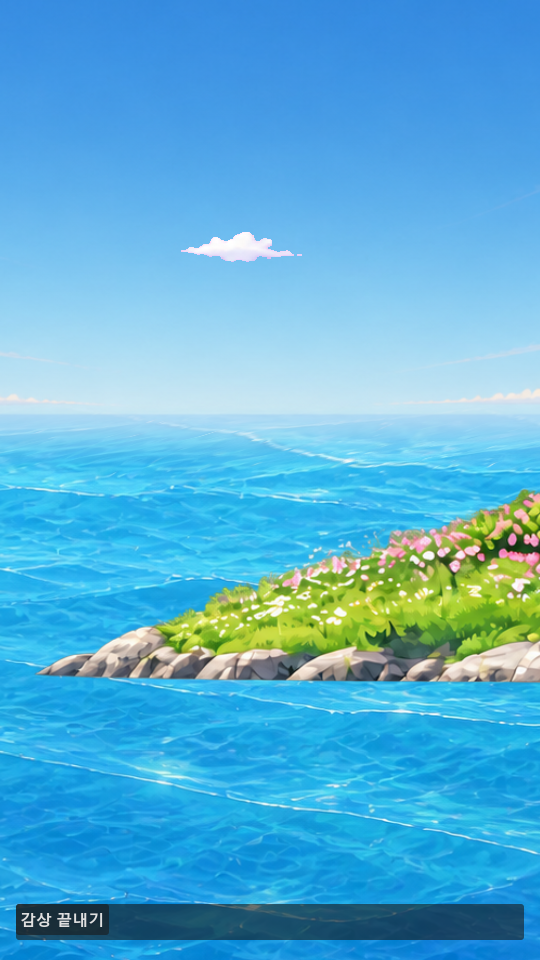
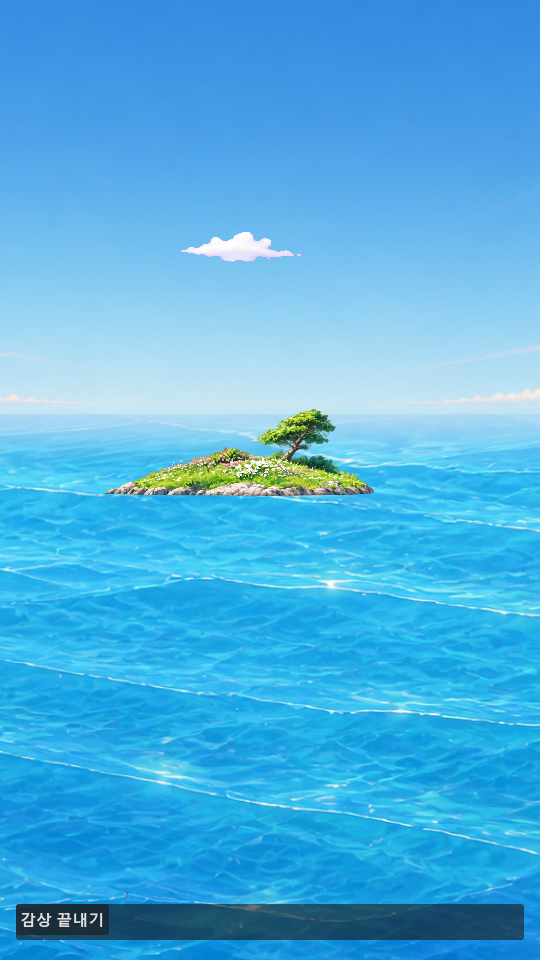
Place seasonal island beyond boat lane

Changed region(s): [[0.0593, 0.5, 1.0, 0.7188], [0.2074, 0.4062, 0.6815, 0.5312]]

diff --git a/docs/design/PROJECT_GDD.md b/docs/design/PROJECT_GDD.md
@@ -324,7 +324,7 @@
 | 오늘의 마음 제거 | `IMPLEMENTED / MACHINE_VERIFIED` | mood data와 pre-entry prompt를 current product route에서 retire함 |
 | 현실 시간 분위기 | `IMPLEMENTED / RUNTIME_CAPTURE_VERIFIED` | 현지 시간은 시각만 바꾸고, startup selector·saved preference는 없음 |
 | 기본 하늘·바다 흐름 | `IMPLEMENTED / MACHINE_VERIFIED / RUNTIME_CAPTURE_VERIFIED` | 각 시간대의 `SkyBackdrop`은 material override 없이 고정되고, `SeaBackdrop`만 `voyage_split_sea_flow.gdshader`의 alpha mask와 shared flow offset으로 타이틀 대기·항해 중 계속 느리게 흐른다. 항해 시간·저장·보상에는 영향을 주지 않는다. Bright 1.8초 frame pair에서 upper sky `0.00%`, open sea `70.79%`, lower sea `83.81%` changed-pixel 증거가 남아 있다. |
-| 밝은 봄 분리 parallax | `IMPLEMENTED / MACHINE_VERIFIED / RUNTIME_CAPTURE_VERIFIED` | 현지 월 `3..5`의 `bright` visual context에서만 구름이 세 camera path에, 꽃섬은 normal·Appreciation의 기존 저밀도 기회 위에 별도 Sprite3D로 합성된다. static sky, flowing sea, 보트, 저장·보상은 바꾸지 않는다. Human/device motion comfort는 별도 검증 전. |
+| 밝은 봄 분리 parallax | `IMPLEMENTED / MACHINE_VERIFIED / RUNTIME_CAPTURE_VERIFIED` | 현지 월 `3..5`의 `bright` visual context에서만 구름이 세 camera path에, 꽃섬은 normal·Appreciation의 기존 저밀도 기회 위에 별도 Sprite3D로 합성된다. 꽃섬은 원본의 투명 캔버스를 제외한 수평선용 영역만 쓰므로 보트가 지나가는 하단 바다 항로에 들어오지 않는다. static sky, flowing sea, 보트, 저장·보상은 바꾸지 않는다. Human/device motion comfort는 별도 검증 전. |
 | 선체-수면 접점 | `IMPLEMENTED / MACHINE_VERIFIED / RUNTIME_CAPTURE_VERIFIED` | existing ripple은 보트의 x/z와 거의 같은 y bob을 따른다. user-approved `MLB-BOAT-FLT-006` narrow waterline raster는 `BoatWaterlineContact`가 depth test를 유지한 채 선체 하단에만 표시하며, 같은 x/z·vertical drift와 `still` comfort base return을 사용한다. 540×960 title·voyage capture에서 캐릭터·동반자·`쉬는 메뉴`를 가리지 않는다. Human comfort는 별도 검증 전 |
 | 흘러가는 풍경 | `IMPLEMENTED / RUNTIME_CAPTURE_VERIFIED` | 첫 기회 90–150초와 기회별 65% 표시를 사용하며, local ambient memory 저장은 구현됨. 0회 항해도 정상이고 Human five-minute observation은 별도 검증 전 |
 | cosmetic 꾸미기 | `IMPLEMENTED / RUNTIME_CAPTURE_VERIFIED` | in-voyage selector와 독립 preview가 local cosmetic state만 바꿈 |
@@ -407,7 +407,7 @@ Static docs, automated tests, generated assets, and GPU captures do not promote 
 - 월 3–5월은 내부 `spring` visual bucket일 뿐, 날짜·계절 이름·지역·날씨·달력 UI·saved preference를 표시하지 않습니다.
 - first v1은 `bright + spring`의 one-island vertical slice입니다. 6–2월과 bright의 다른 기존 motif는 current pool로 fallback하며, 다른 계절 image batch는 이 package에 자동 포함하지 않습니다.
 - `SkyBackdrop`은 그대로 고정하고, existing `SeaBackdrop`과 `voyage_split_sea_flow.gdshader`를 재사용합니다. 새 sea image, full-scene moving texture, whole-sky pan은 만들지 않습니다.
-- `SeasonalCloudLayer`는 three camera path의 sky와 sea 사이에서 only-cloud parallax를 보이고, `SeasonalIslandLayer`는 current normal·Appreciation ambient transit에서 sea 앞/boat 뒤에 보입니다. Look Around의 angle-specific foreground와 existing ambient policy는 변경하지 않습니다.
+- `SeasonalCloudLayer`는 three camera path의 sky와 sea 사이에서 only-cloud parallax를 보이고, `SeasonalIslandLayer`는 current normal·Appreciation ambient transit에서 sea 앞/boat 뒤의 수평선 landmark로만 보입니다. 꽃섬의 source alpha bounds를 포함하는 runtime crop과 작은 scale을 사용해 하단 보트 항로와 교차하지 않습니다. Look Around의 angle-specific foreground와 existing ambient policy는 변경하지 않습니다.
 - 꽃섬은 current `DriftSceneryDirector`의 foreground-only cadence, one-at-a-time state, 65% display chance, 0-event-valid rule, existing short label, and optional local ambient memory save를 그대로 공유합니다. chance, cadence, save rate, camera mode, speed tier, cosmetic identity, together time, fishing, decor, affection, reward는 바꾸지 않습니다.
 - 구름은 visual-only loop이며 ambient memory, notification, timer, reward, photo requirement, score, completion, collection slot, seasonal event, daily goal, missed-state, social action을 만들지 않습니다.
 - user `still` motion comfort setting에서는 새 cloud parallax와 new island transit movement도 advance하지 않습니다. `standard / gentle`은 current normalized motion multiplier를 재사용해 amplitude와 transit speed를 낮춥니다. 이 behavior는 existing approved sea and boat semantics를 변경하지 않습니다.
@@ -420,9 +420,9 @@ Static docs, automated tests, generated assets, and GPU captures do not promote 
 | --- | --- | --- |
 | `scripts/voyage/real_time_atmosphere_resolver.gd` | injectably resolve `spring` for months `3..5`; invalid month safely resolves to empty seasonal bucket | device date is visual-only; no persistence, reward, or progress use. Godot system time is not a monotonic gameplay clock |
 | `scripts/voyage/drift_scenery_director.gd` | select the existing bright motif pool plus exactly one `bright + spring` island when compatible; preserve no-immediate-repeat and fallback behavior | no new cadence/state persistence; reverting the seasonal entry restores the current six motif selection |
-| `scenes/game.tscn` | add named `SeasonalCloudLayer` to three camera paths and named `SeasonalIslandLayer` only beside existing normal/Appreciation `AmbientSceneryPass` | no changed BoatSpace, Look Around foreground, sky/sea source, or UI hierarchy |
+| `scenes/game.tscn` | add named `SeasonalCloudLayer` to three camera paths and named `SeasonalIslandLayer` only beside existing normal/Appreciation `AmbientSceneryPass`; island keeps the canonical source but uses `region_enabled`, `Rect2(632, 350, 1028, 350)`, and `pixel_size=0.005` for a horizon-only silhouette | no changed BoatSpace, Look Around foreground, sky/sea source, or UI hierarchy |
 | `scripts/voyage/game_scene.gd` | bind exact approved textures, existing chroma-key shader, visual month bucket, cloud loop, island transit, and comfort multiplier without touching voyage/save semantics | a package reversion removes the named nodes/routes and returns exact current scene behavior |
-| `tests/test_seasonal_parallax_contract.gd` and focused existing contracts | injected month / atmosphere matrix, source-to-canonical hash, alpha/matte guard, layer order, fallback, no save/reward mutation, still/gentle motion boundaries | display capture assertions stay renderer-only and never report headless texture readback as PASS |
+| `tests/test_seasonal_parallax_contract.gd` and focused existing contracts | injected month / atmosphere matrix, source-to-canonical hash, alpha/matte guard, layer order, runtime crop excluding source-canvas edges, distant projected scale, fallback, no save/reward mutation, still/gentle motion boundaries | display capture assertions stay renderer-only and never report headless texture readback as PASS |
 
 **alternatives compared.**
 
@@ -433,7 +433,7 @@ Static docs, automated tests, generated assets, and GPU captures do not promote 
 | Real-time daily quests, seasonal event calendar, photo objectives, collection completion or notice-driven rewards | **REJECT** | converts visual context into a chore/FOMO loop and violates the rest-first no-pressure boundary |
 | Local month only changing a static tint with no new landmark layers | **ADAPT later only** | cheap but does not solve the user-requested depth and continuous movement issue |
 
-**feasibility and test path.** Godot `Time.get_date_dict_from_system(false)` exposes local month data, but system-clock values can be changed by the user or OS; therefore the package uses it only for visual routing and injected deterministic tests, never elapsed-time, reward, or save computation. [Godot Time 공식 문서](https://docs.godotengine.org/en/stable/classes/class_time.html) `test_seasonal_parallax_contract.gd` first failed on absent month routing, three-argument seasonal selection, named camera consumers and motion behavior, then passed after the bounded implementation. Current local Godot 4.7.2 runs `58` contracts with one named display-only proof and `57` headless passes. `tests/capture_bright_spring_seasonal_parallax.gd` separately recorded normal and Appreciation 540×960 Windows OpenGL frames with the actual island event and an upper-sky cloud-pixel guard. This remains machine/runtime evidence, not Human/device comfort proof.
+**feasibility and test path.** Godot `Time.get_date_dict_from_system(false)` exposes local month data, but system-clock values can be changed by the user or OS; therefore the package uses it only for visual routing and injected deterministic tests, never elapsed-time, reward, or save computation. [Godot Time 공식 문서](https://docs.godotengine.org/en/stable/classes/class_time.html) `Sprite3D.region_enabled` displays only the configured `region_rect`, so it can consume the existing island source without a derivative PNG while excluding its transparent canvas margin. [Godot Sprite3D 공식 문서](https://docs.godotengine.org/en/stable/classes/class_sprite3d.html) `test_seasonal_parallax_contract.gd` first failed on absent month routing, three-argument seasonal selection, named camera consumers and motion behavior, then passed after the bounded implementation. The distance correction adds a source-edge crop and projected-scale contract; the renderer capture additionally requires the island to be visible in the horizon band but absent from the lower boat lane. This remains machine/runtime evidence, not Human/device comfort proof.
 
 **final approval boundary.** The user approved this exact Blueprint revision before implementation. That authority was consumed only for this Bright/spring vertical slice. It did not authorize other seasonal images, daily systems, location settings, social features, or Human validation.
 
@@ -457,4 +457,16 @@ No valid MUST_FIX remains in the material-preparation scope. The rejected candid
 | 2 | resolver/director green run and existing director/ambient/split contracts | direct append into a constant-backed motif array produced Godot `Array is in read-only state` | copied the array before appending; no cadence, chance, save rate or old motif source changed | seasonal, director, ambient and split contracts passed |
 | 3 | Scene consumer contract, three camera nodes and Look Around foreground material | shared chroma-key `ShaderMaterial` would overwrite the existing angle foreground texture binding | each `SeasonalCloudLayer` now gets a runtime-local shader material while reusing the same approved shader source | named normal/Look Around/Appreciation cloud layers, normal/Appreciation island layers and untouched Look Around policy passed |
 | 4 | motion contract with no-save deterministic island event and existing comfort/forward-drift/ambient contracts | dedicated island needed manual comfort-aware transit rather than the old tween, which would move even in `still` | cloud phase and island progress use existing `standard/gentle/still` scale; the shared return timer clears the visual route without a new saved timer | standard motion, gentle reduction, still freeze and photo/fish/record/together-time non-mutation passed |
[2 lines of base64/hex data omitted]
+
+#### 8.1.3 2026-09-01 원거리 꽃섬 항로 보정 receipt
+
+사용자 방향은 “섬은 멀리 두고 배는 바다만 지난다”입니다. 이 보정은 `MLB-AMB-SEASONAL-ISLAND-001` 원본·승인·hash·chance·cadence·save·reward·camera mode를 바꾸지 않고, 두 existing `SeasonalIslandLayer`의 표시 영역과 scale만 좁힙니다.
+
+| loop | exact review | validated finding | applied correction / retained boundary | regression / evidence |
+| --- | --- | --- | --- | --- |
+| 1 | latest user direction, current `AGENTS.md`, `game.tscn`, current normal OpenGL capture, island asset consumer | island source full canvas was displayed at the same scale as the ambient pass, so its large transparent canvas made the landmark read near the boat lane | choose source-preserving runtime crop plus smaller projected scale; do not add a new island image or move the boat, sea, reward, or transit schedule | initial static geometry and renderer lane guards fail before correction |
+| 2 | failure-first `test_seasonal_parallax_contract.gd` geometry assertion and normal renderer lower-lane assertion | full-canvas source does not exclude empty margins, cannot prove horizon scale, and can leave island-colour samples in the lower boat lane | require a non-edge `region_rect`, `region_enabled`, and normal-camera projected height ratio `≤ 0.30`; renderer also requires a horizon mark and clear lower lane | failure output retained before Scene correction |
+| 3 | exact source alpha inspection and official `Sprite3D` region semantics | `1672×941` source has opaque alpha only in `Rect2(644, 362, 1002, 322)` | retain source bytes and select padded `Rect2(632, 350, 1028, 350)` with `pixel_size=0.005` in normal and Appreciation layers | crop contains every opaque source pixel while excluding all four source-canvas edges |
+| 4 | iterative scene diff, actual 540×960 display capture, untouched `SkyBackdrop` and `SeaBackdrop` readback | an overly broad scene edit briefly changed the normal sky/sea card scale, visibly producing blue frame bars | restore both normal sky/sea `pixel_size` values exactly to their prior `0.02`; retain only the two island `region` and `pixel_size` changes | current scene diff is restricted to the two seasonal island layers; sky, flowing sea, BoatSpace and Look Around remain untouched |
[1 lines of base64/hex data omitted]

diff --git a/docs/handoffs/CURRENT_GODOT_IMPLEMENTATION.md b/docs/handoffs/CURRENT_GODOT_IMPLEMENTATION.md
@@ -17,7 +17,7 @@
 | 현지 시간대 | `RealTimeAtmosphereResolver`가 `05–08=dawn`, `09–16=bright`, `17–20=sunset`, `21–04=night`를 visual-only로 결정한다. 30초 갱신과 focus/resume 갱신이 있다. | injected-hour contract `PASS`, 네 시간대·두 카메라 capture `PASS` |
 | 승인 풍경 asset | `MLB-BG-SPLIT-001..008`은 `dawn / bright / sunset / night`의 static `SkyBackdrop`와 flowing `SeaBackdrop` current pair다. `MLB-BOAT-FLT-005`는 `BoatWaterContact`, user-approved `MLB-BOAT-FLT-006`은 `BoatWaterlineContact`다. `MLB-AMB-MOTIF-001..006`은 active foreground의 dedicated normal·Appreciation `AmbientSceneryPass` consumer다. 이전 `MLB-BOAT-FLT-001/002/003/004` combined source와 `MLB-BP-VIS-001/002/003/004/005`는 historical/legacy consumer를 위해 보존하되 current split route에서는 superseded다. `006`은 Human Blueprint flow-map으로 runtime 미소비다. | split-background contract, time/ambient/look-around/capture guard contracts `PASS`; `2026-08-31-split-sky-sea-background` OpenGL 9장 captured; Human motion/color comfort `NOT_RUN` |
 | 저밀도 풍경 | `DriftSceneryDirector`는 foreground delta만 누적해 첫 **기회**를 90–150초에 예약하고, 기회마다 65% 확률로 현재 local-time의 `MLB-AMB-MOTIF-001..006` 중 하나를 표시한다. 표시 여부와 무관하게 이후 기회는 120–180초 뒤에 다시 예약된다. bright·sunset은 즉시 같은 motif를 반복하지 않는다. `GameScene`은 static `SkyBackdrop` + flowing `SeaBackdrop`을 유지한 채 chosen exact texture를 normal·Appreciation `AmbientSceneryPass`에 넣고, authored side hint `backdrop_offset_x`를 ±21 world-unit transit로 넓혀 약 14초간 좌우 이동·입퇴장 fade한다. pass는 세로 화면 높이를 overscan하므로 수평 image edge가 보트 화면을 가르지 않는다. Look Around art는 건드리지 않는다. 버튼·목적지·만료·보상 track은 없고, `save_memory=true`만 `GameState.record_ambient_memory`를 거쳐 `user://ambient_memory_v1.cfg`에 즉시 저장한다. 0회 항해는 정상이며 UI에 확률·대기 시간·missed state는 없다. | director/scene + ambient persistence/state/game-scene + motif asset contracts `PASS`; six 540×960 OpenGL pass captures `PASS`; Human long-run observation `NOT_RUN` |
-| 밝은 봄 분리 parallax | `RealTimeAtmosphereResolver`가 현지 월 `3..5`를 visual-only `spring`으로만 해석한다. `bright + spring`일 때 세 `SeasonalCloudLayer`가 각 camera path에서 runtime-local chroma-key material로 느리게 지나가고, exact `MLB-AMB-SEASONAL-ISLAND-001`은 existing 90–150초/120–180초 foreground 기회·65% chance 내부에서 normal·Appreciation에만 꽃섬 transit으로 선택된다. 기존 static sky, flowing sea, Look Around island 부재, cadence, chance, ambient memory/save, reward와 time 의미는 유지한다. `standard/gentle/still`은 구름·섬 motion을 `1.0/0.5/0.0`으로만 조절한다. | seasonal/director/ambient/split/forward-drift/comfort contracts `PASS`; 57 headless bounded batch `PASS`; 540×960 Windows OpenGL normal·Appreciation capture `PASS`. Display shutdown의 generated-WAV two-instance warning은 existing engine baseline이며 Human/device motion·audio comfort `NOT_RUN` |
+| 밝은 봄 분리 parallax | `RealTimeAtmosphereResolver`가 현지 월 `3..5`를 visual-only `spring`으로만 해석한다. `bright + spring`일 때 세 `SeasonalCloudLayer`가 각 camera path에서 runtime-local chroma-key material로 느리게 지나가고, exact `MLB-AMB-SEASONAL-ISLAND-001`은 existing 90–150초/120–180초 foreground 기회·65% chance 내부에서 normal·Appreciation에만 꽃섬 transit으로 선택된다. 꽃섬은 source canvas를 복제하지 않고 `region_enabled`, `Rect2(632, 350, 1028, 350)`, `pixel_size=0.005`로 수평선의 작은 landmark만 표시하므로 하단 보트 항로로 들어오지 않는다. 기존 static sky, flowing sea, Look Around island 부재, cadence, chance, ambient memory/save, reward와 time 의미는 유지한다. `standard/gentle/still`은 구름·섬 motion을 `1.0/0.5/0.0`으로만 조절한다. | seasonal/director/ambient/split/forward-drift/comfort contracts `PASS`; 57 headless bounded batch `PASS`; 540×960 Windows OpenGL normal·Appreciation capture `PASS`. Display shutdown의 generated-WAV two-instance warning은 existing engine baseline이며 Human/device motion·audio comfort `NOT_RUN` |
 | 꾸미기 consumer | `DecorPanel`이 player/pet local selector와 boat decor controls를 제공하고, `DecorPreview`의 독립 `BoatSpace` instance가 그 state를 즉시 표시한다. 기본 C+강아지 final composite에서는 저장된 `pet_corner=pet_cushion, appearance=floral`만 bow-side overlay로 소비한다. 기존 save ID의 alternate A/B player, cat/rabbit/otter, `stripe`·`moon`은 user-approved canonical chibi paths로 layered card/decor texture에 연결된다. `rail_accent=postcard`는 main rest composite에 합성하지 않고 independent preview의 actual rail face로만 소비하며, 실제 voyage photo postcard는 Album에서 본다. 숨김 상태에서는 SubViewport 3D, render target, camera, preview BoatSpace를 모두 비활성화하고, 열 때만 함께 활성화한다. | identity/runtime-image/capture-guard/final-composite/decor-preview contracts `PASS`; alternate 540×960 GPU capture inspected; Human readability `NOT_RUN` |
 | 함께한 시간 consumer | `GameScene`은 foreground active-voyage delta만 `GameState.together_time_seconds`에 더하고, `TogetherTimePersistence`가 `user://together_time_v1.cfg`에 local-only로 저장한다. `AlbumView`만 duration·관계 문구를 표시한다. | persistence/state/game-scene/Album contracts `PASS`, 540×960 Album GPU capture inspected; Human readability `NOT_RUN` |
 | 모션 편안함과 기본 하늘·바다 흐름 | `ComfortPreferences`가 `user://comfort_preferences_v1.cfg`의 normalized `standard/gentle/still`만 저장한다. `GameScene`은 camera y bob, 하단 20% 기준의 `BoatSpace` y bob/roll, 목적지 없는 순환형 전후 surge와 미세한 측면 current, `BoatWaterContact`와 `BoatWaterlineContact`의 breath/offset/scale을 각각 `1.0 / 0.5 / 0.0`으로 곱한다. title waiting도 visual-only 저진폭 bob과 `voyage_split_sea_flow.gdshader`의 sea-only flow를 보이지만 voyage timer·together time·ambient director는 전진하지 않는다. static `SkyBackdrop`는 material override가 없고, `SeaBackdrop`만 shared flow offset을 받는다. 항해 시작 뒤 flow는 speed tier와 함께 빨라진다. 두 contact는 same x/z와 거의 같은 y bob을 따른다. `MLB-BOAT-FLT-006`은 depth test를 유지한 앞쪽의 얇은 선체 접점으로 runtime 소비되고, sea-focused Appreciation mode에서는 `BoatSpace`와 두 contact를 함께 숨겨 하단 UI와 겹치지 않는다. | split/background/time/ambient/look-around/capture guard contracts `PASS`; 2026-08-31 OpenGL bright frame pair sky `0.00%`, open sea `70.79%`, lower sea `83.81%` change; four-time 9-frame capture `PASS`; Human motion/color comfort `NOT_RUN` |
@@ -67,7 +67,7 @@
 
 - **Current 2026-09-01 Look Around foreground receipt:** `all=57, headless=56, display_only=1`이다. `test_look_around_foreground_split_contract.gd`는 네 non-front foreground exact path, visible static sky, flowing sea ShaderMaterial, duplicate normal-card hiding을 확인한다. 56개 current headless 계약은 로컬 Godot 4.7.2에서 네 bounded batch로 aggregate success를 기록했고, import도 exit 0으로 끝났다. Windows OpenGL capture와 1.8초 port frame-pair 증거는 `docs/evidence/2026-09-01-look-around-foreground-split/`가 current owner다. 원격 CI와 Human/device comfort는 각각 `NOT_RUN`이다.
 
-- **Current 2026-09-01 Bright/spring seasonal-parallax receipt:** `all=58, headless=57, display_only=1`이다. `test_seasonal_parallax_contract.gd`는 injected `bright + 3..5` only context, empty-month fallback, exact asset paths, three cloud/two island consumers, Look Around island absence, per-node material isolation, standard/gentle/still motion scale, no gameplay-ledger mutation을 확인한다. exact paths are additionally owned by runtime capture guard. Local Godot 4.7.2의 27+30 bounded headless batch가 aggregate success를 기록했고, Windows OpenGL normal·Appreciation `540×960` capture와 normal upper-sky cloud mark guard는 `docs/evidence/2026-09-01-bright-spring-seasonal-parallax/`에 보존한다. 실제 display capture는 exit `0`이지만 RestingSoundscape generated-WAV two-instance ObjectDB warning을 동일하게 보이며, minimal display reproduction과 일치하는 engine/lifecycle baseline으로 보존한다. 원격 CI와 Human/device motion·audio comfort는 각각 `NOT_RUN`이다.
+- **Current 2026-09-01 Bright/spring seasonal-parallax receipt:** `all=58, headless=57, display_only=1`이다. `test_seasonal_parallax_contract.gd`는 injected `bright + 3..5` only context, empty-month fallback, exact asset paths, three cloud/two island consumers, Look Around island absence, per-node material isolation, standard/gentle/still motion scale, no gameplay-ledger mutation을 확인한다. 원거리 꽃섬 보정은 두 island consumer의 `region_enabled`, non-edge `Rect2(632, 350, 1028, 350)`, projected distant scale을 추가로 고정한다. exact paths are additionally owned by runtime capture guard. Local Godot 4.7.2의 27+30 bounded headless batch가 aggregate success를 기록했고, Windows OpenGL normal·Appreciation `540×960` capture guard는 normal upper-sky cloud mark, horizon island mark, fixed boat silhouette 밖 하단 boat lane의 island-colour 부재를 확인한다. 실제 display capture는 exit `0`이지만 RestingSoundscape generated-WAV two-instance ObjectDB warning을 동일하게 보이며, minimal display reproduction과 일치하는 engine/lifecycle baseline으로 보존한다. 원격 CI와 Human/device motion·audio comfort는 각각 `NOT_RUN`이다.
 
 **Human evidence ceiling:** 실제 기기의 첫 30초·5분 휴식감, 터치 target, 모션 민감성, 텍스트 가독성, 사운드 편안함은 `NOT_RUN`이다. 기계 계약과 capture가 이를 대체하지 않는다.
 

diff --git a/docs/visual/CURRENT_SCREEN_SURFACE_INVENTORY_AND_VISUAL_ASSET_COVERAGE.md b/docs/visual/CURRENT_SCREEN_SURFACE_INVENTORY_AND_VISUAL_ASSET_COVERAGE.md
@@ -66,7 +66,7 @@ Notion은 historical archive이며 이 문서의 current owner가 아닙니다. 
 | `MLB-BG-SPLIT-001..008` | `dawn / bright / sunset / night`별 `SkyBackdrop` + `SeaBackdrop`, normal·front Look Around·Appreciation | `USER_APPROVED → CANON_REGISTERED → ASSET_READY → IMPLEMENTED → MACHINE_VERIFIED → RUNTIME_CAPTURE_VERIFIED`; 2026-08-31 OpenGL 9-frame capture, Human motion/color comfort `NOT_RUN` |
 | `MLB-AMB-MOTIF-001..006` | current local-time bucket의 normal·Appreciation `AmbientSceneryPass`, split sky·flowing sea는 유지 | `USER_APPROVED → CANON_REGISTERED → IMPLEMENTED → RUNTIME_CAPTURE_VERIFIED`; 2026-08-31 six-pass capture, Human long-run observation `NOT_RUN` |
 | `MLB-AMB-SEASONAL-REF-001` | 2026-09-01 밝은 봄 꽃섬의 visual-direction source. runtime consumer 없음 | `USER_APPROVED → CANON_REGISTERED → REFERENCE_ONLY`; full-scene source는 split layer를 대체하지 않음 |
-| `MLB-AMB-SEASONAL-ISLAND-001` | Bright/spring `SeasonalIslandLayer`, Normal·Appreciation의 existing ambient-scene transit 위 | `USER_APPROVED → CANON_REGISTERED → ASSET_READY → IMPLEMENTED → MACHINE_VERIFIED → RUNTIME_CAPTURE_VERIFIED`; alpha source/canonical SHA equality, headless contract, 2026-09-01 OpenGL two-view capture verified. Human `NOT_RUN` |
+| `MLB-AMB-SEASONAL-ISLAND-001` | Bright/spring `SeasonalIslandLayer`, Normal·Appreciation의 existing ambient-scene transit 위. 원본의 투명 캔버스는 runtime `region_rect`로 제외하고, 수평선의 원거리 landmark만 보인다 | `USER_APPROVED → CANON_REGISTERED → ASSET_READY → IMPLEMENTED → MACHINE_VERIFIED → RUNTIME_CAPTURE_VERIFIED`; alpha source/canonical SHA equality, headless contract, 2026-09-01 OpenGL two-view capture verified. Human `NOT_RUN` |
 | `MLB-AMB-SEASONAL-CLOUD-001` | Bright/spring `SeasonalCloudLayer`, 세 camera path의 static sky 위 runtime-local chroma-key parallax | `USER_APPROVED → CANON_REGISTERED → ASSET_READY → IMPLEMENTED → MACHINE_VERIFIED → RUNTIME_CAPTURE_VERIFIED`; matte-key/material isolation, upper-cloud capture guard and 2026-09-01 OpenGL two-view capture verified. Human `NOT_RUN` |
 | `MLB-BOAT-FLT-006` | `assets/images/runtime/voyage/boat-waterline-contact-v2.png` → `GameScene/VoyageWorld/BoatWaterlineContact` | `USER_APPROVED → CANON_REGISTERED → ASSET_READY → IMPLEMENTED → MACHINE_VERIFIED → RUNTIME_CAPTURE_VERIFIED`; Human motion comfort `NOT_RUN` |
 
@@ -96,11 +96,11 @@ Notion은 historical archive이며 이 문서의 current owner가 아닙니다. 
 | asset id | source / canonical file | dimensions / format | SHA-256 | approved role | implementation boundary |
 | --- | --- | --- | --- | --- | --- |
[4 lines of base64/hex data omitted]
 | existing `MLB-BG-SPLIT-001` / `002` | `bright-static-sky.png` + `bright-flowing-sea.png` | `1672×941`, RGB pair | see §4.1 | static sky + independently flowing sea | re-used without duplicate generation or changed asset identity |
 
-`MLB-AMB-SEASONAL-ISLAND-001`의 empty-canvas samples are actual `A=0`; island sample is `A=253`. `MLB-AMB-SEASONAL-CLOUD-001` is intentionally opaque because the current built-in image output did not preserve actual transparent pixels for cloud candidates. Its non-cloud matte samples satisfy existing chroma-key thresholds with chroma `0.710–0.847` and brightness `0.827–0.882`; cloud samples do not meet the key condition. The source-level compatibility is now supplemented, not replaced, by `tests/test_seasonal_parallax_contract.gd` and `tests/capture_bright_spring_seasonal_parallax.gd`: Windows OpenGL normal and Appreciation captures are `540×960`, recorded at `docs/evidence/2026-09-01-bright-spring-seasonal-parallax/`, and the capture guard requires a visible normal upper-sky cloud mark. Human/device comfort is still `NOT_RUN`.
+`MLB-AMB-SEASONAL-ISLAND-001`의 empty-canvas samples are actual `A=0`; island sample is `A=253`. 불투명 alpha bounds는 `Rect2(644, 362, 1002, 322)`이고, runtime consumer는 이 영역을 충분한 여백과 함께 포함하되 source canvas의 네 변은 제외한 `Rect2(632, 350, 1028, 350)`만 표시한다. `MLB-AMB-SEASONAL-CLOUD-001` is intentionally opaque because the current built-in image output did not preserve actual transparent pixels for cloud candidates. Its non-cloud matte samples satisfy existing chroma-key thresholds with chroma `0.710–0.847` and brightness `0.827–0.882`; cloud samples do not meet the key condition. The source-level compatibility is now supplemented, not replaced, by `tests/test_seasonal_parallax_contract.gd` and `tests/capture_bright_spring_seasonal_parallax.gd`: Windows OpenGL normal and Appreciation captures are `540×960`, recorded at `docs/evidence/2026-09-01-bright-spring-seasonal-parallax/`, and the normal capture guard requires an upper-sky cloud mark, a visible horizon-band island, and no island-colour samples in the lower boat lane outside the fixed boat silhouette. Human/device comfort is still `NOT_RUN`.
 
 The two generated RGB checkerboard cloud attempts and one reflective-island exploration are `REJECTED_GENERATED_CANDIDATES`; they have no project copy, canonical ID, runtime consumer, capture, or release meaning. Candidate-store deletion was attempted after their rejection but platform deletion protection blocked it. No repository capacity, Godot importer, or build path consumes them.
 

diff --git a/README.md b/README.md
@@ -46,8 +46,8 @@
 
 1. Godot 4.7 stable 계열로 `project.godot`을 Import합니다.
 2. 기본 main scene을 실행하면 실제 보트·동반자·바다·수평선과 브랜드 로고, `항해 시작`이 보입니다. 이 대기 상태에서는 항해 시간이 흐르지 않습니다. `항해 시작` 뒤에만 큰 조작 패널 대신 `쉬는 메뉴`가 표시됩니다.
-3. 기기 현지 시각은 시각만 바꿉니다. `05–08` 새벽, `09–16` 밝음, `17–20` 해질녘, `21–04` 밤이며 보상·진행·저장에는 영향을 주지 않습니다. 밝은 시간의 현지 월이 3–5월이면 작은 구름과 꽃섬이 시각적으로만 더해질 수 있지만, 계절명·날짜·설정·보상은 표시하거나 저장하지 않습니다.
+3. 기기 현지 시각은 시각만 바꿉니다. `05–08` 새벽, `09–16` 밝음, `17–20` 해질녘, `21–04` 밤이며 보상·진행·저장에는 영향을 주지 않습니다. 밝은 시간의 현지 월이 3–5월이면 작은 구름과 수평선 쪽의 먼 꽃섬이 시각적으로만 더해질 수 있지만, 계절명·날짜·설정·보상은 표시하거나 저장하지 않습니다.
 4. 메뉴를 열면 사진, 감상모드, 둘러보기, 속도, `파도: 기본/잔잔/고요`, 낚시, 꾸미기, 상호작용, 앨범을 선택할 수 있습니다. `파도`는 보트·카메라·수면 접점의 자동 움직임 진폭만 `1.0 / 0.5 / 0.0`으로 바꾸는 기기 로컬 선택이며, 항해 시간·속도·보상·저장·시간대에는 영향을 주지 않습니다. `사진`은 선택 UI를 잠시 숨긴 실제 항해 프레임을 포스트카드로 저장합니다. `낚시`는 기다린 뒤 물고기를 남기거나, 입질 없이 조용히 거두거나, 기다리는 중 언제든 줄을 거둘 수 있으며 어느 경우에도 손해·점수·연속 보상은 없습니다. `상호작용`에서는 동반자와 나란히 쉬기, 난간에서 파도 소리 듣기처럼 짧은 문구와 작은 pose만 보입니다. `둘러보기`는 마우스·터치 드래그로 시점을 바꾸며, 승인된 좌·우·뒤·위 치비 원화를 실제로 전환합니다. 기본 시점·감상모드·꾸미기·앨범과는 독립적으로 전환되고, 항해 시간·속도·저장에는 영향을 주지 않습니다. `꾸미기`는 독립 보트 미리보기에서 외형·동반자·장식을 즉시 보여 주며, 기본 바다 화면은 바꾸지 않습니다. `감상모드`에서는 대부분의 UI가 숨겨집니다.
-5. 현재 구현은 포그라운드에 실제로 머문 90–150초 뒤 첫 자연 풍경 **기회**를 예약합니다. 각 기회는 65% 확률로만 현재 시간대의 승인 명소를 보이며, 표시되지 않아도 다음 기회는 120–180초 뒤 조용히 예약됩니다. bright와 sunset은 같은 명소가 바로 다시 나오지 않습니다. 밝은 봄에는 기존 bright 명소와 함께 작은 꽃섬 하나가 같은 기회 풀에서 지나갈 수 있고, 구름은 그보다 느린 시각 전용 parallax로 움직입니다. 배경에 있던 시간은 누적되지 않으며, 5분 항해에 풍경이 0회인 것도 정상입니다. 이 확률과 다음 기회 시간은 화면에 표시되지 않습니다.
+5. 현재 구현은 포그라운드에 실제로 머문 90–150초 뒤 첫 자연 풍경 **기회**를 예약합니다. 각 기회는 65% 확률로만 현재 시간대의 승인 명소를 보이며, 표시되지 않아도 다음 기회는 120–180초 뒤 조용히 예약됩니다. bright와 sunset은 같은 명소가 바로 다시 나오지 않습니다. 밝은 봄에는 기존 bright 명소와 함께 작은 꽃섬 하나가 같은 기회 풀에서 지나갈 수 있고, 구름은 그보다 느린 시각 전용 parallax로 움직입니다. 꽃섬은 원본의 투명 여백을 제외한 수평선용 영역만 사용하므로 하단 보트 항로와 겹치지 않습니다. 배경에 있던 시간은 누적되지 않으며, 5분 항해에 풍경이 0회인 것도 정상입니다. 이 확률과 다음 기회 시간은 화면에 표시되지 않습니다.
 
 recovery revision 당시에는 Godot 계약 52개 중 headless-safe 51개를 다시 실행했고, `test_chibi_normal_chroma_material_proof.gd`는 Windows OpenGL Compatibility renderer에서 별도로 통과했습니다. 이후 title brand, user-approved waterline v2, 분리 하늘·바다, headless editor-plugin guard, Look Around foreground split, Bright/spring seasonal parallax 계약이 추가되어, 현재 GitHub CI는 정렬된 `tests/test_*.gd` discovery로 **58개 전체 수**, display 전용 예외 1개, **57개 headless 계약**을 fail-closed로 확인합니다. 현재 57개 headless 집합은 계절 parallax 변경 뒤 로컬 Godot 4.7.2에서 다시 실행해 통과했습니다. 이 구성은 remote CI 실행 PASS가 아니며, display material proof를 headless `SKIP` PASS로 바꾸지 않습니다. Bright/spring의 normal·Appreciation Windows OpenGL capture는 별도 renderer evidence입니다. 실제 기기에서의 첫 30초, 5분 휴식감, 터치, 모션, 텍스트와 오디오 편안함은 아직 사람 검증이 필요합니다. 각 상태와 근거 ceiling은 프로젝트 GDD와 handoff에서 확인합니다.

diff --git a/docs/evidence/2026-09-01-bright-spring-seasonal-parallax/README.md b/docs/evidence/2026-09-01-bright-spring-seasonal-parallax/README.md
@@ -2,16 +2,16 @@
 
 ## Scope
 
-`bright + spring` injected visual context에서만 actual `SeasonalCloudLayer`와 `SeasonalIslandLayer`를 표시한 Windows OpenGL renderer evidence다. 정적 하늘, flowing sea, 하단 보트 foreground와 별도 depth를 확인하며, 계절 UI·저장·보상·목적지는 검증하거나 만들지 않는다.
+`bright + spring` injected visual context에서만 actual `SeasonalCloudLayer`와 `SeasonalIslandLayer`를 표시한 Windows OpenGL renderer evidence다. 꽃섬은 source PNG를 바꾸거나 복제하지 않고 `Sprite3D.region_enabled`의 `Rect2(632, 350, 1028, 350)`만 사용해 수평선의 원거리 landmark로 표시한다. 정적 하늘, flowing sea, 하단 보트 foreground와 별도 depth를 확인하며, 계절 UI·저장·보상·목적지는 검증하거나 만들지 않는다.
 
 ## Capture route
 
-`tests/capture_bright_spring_seasonal_parallax.gd`가 local `GameState` 항해를 시작하고, `apply_real_time_visual_context_for_tests(12, 4)`와 deterministic 꽃섬 event를 사용한다. normal frame을 저장한 뒤 Appreciation으로 전환해 두 번째 frame을 저장한다. capture는 actual cloud/island texture와 runtime-local chroma material을 먼저 assert하고, normal image 상단 40%에 밝은 cloud mark가 남았는지도 검사한다.
+`tests/capture_bright_spring_seasonal_parallax.gd`가 local `GameState` 항해를 시작하고, `apply_real_time_visual_context_for_tests(12, 4)`와 deterministic 꽃섬 event를 사용한다. 실제 7초 drift 뒤에도 injected `bright + spring` context가 유지되는지를 다시 확인하고, normal frame을 저장한 뒤 Appreciation으로 전환해 두 번째 frame을 저장한다. capture는 actual cloud/island texture와 runtime-local chroma material을 먼저 assert하고, normal image의 상단 cloud mark, 중간 수평선 band의 꽃섬 mark, 하단 64% boat lane에서 fixed boat silhouette 밖의 섬 색상 부재를 검사한다.
 
 | file | surface | resolution | SHA-256 |
 | --- | --- | --- | --- |
[4 lines of base64/hex data omitted]
 
 ## Machine boundary
 
